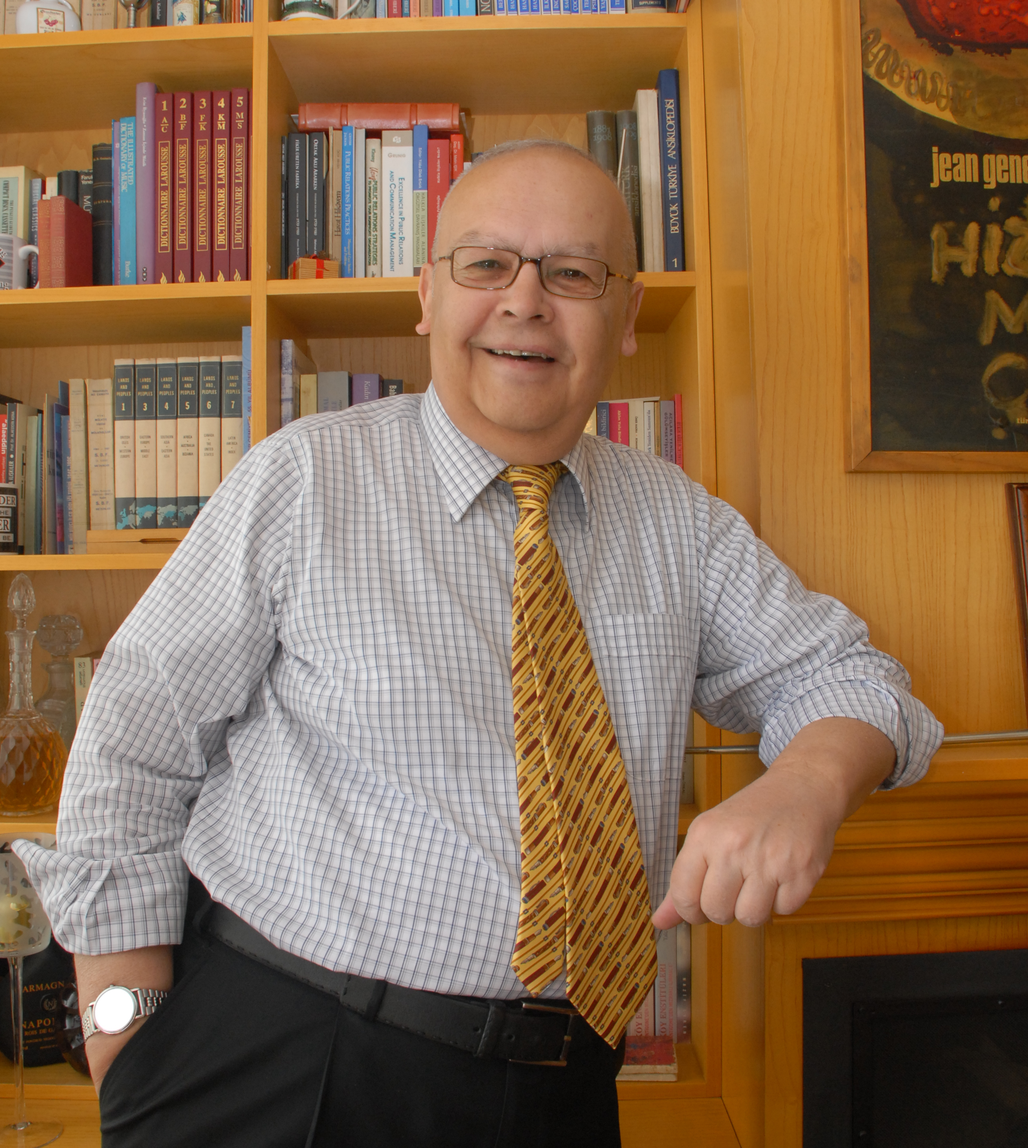
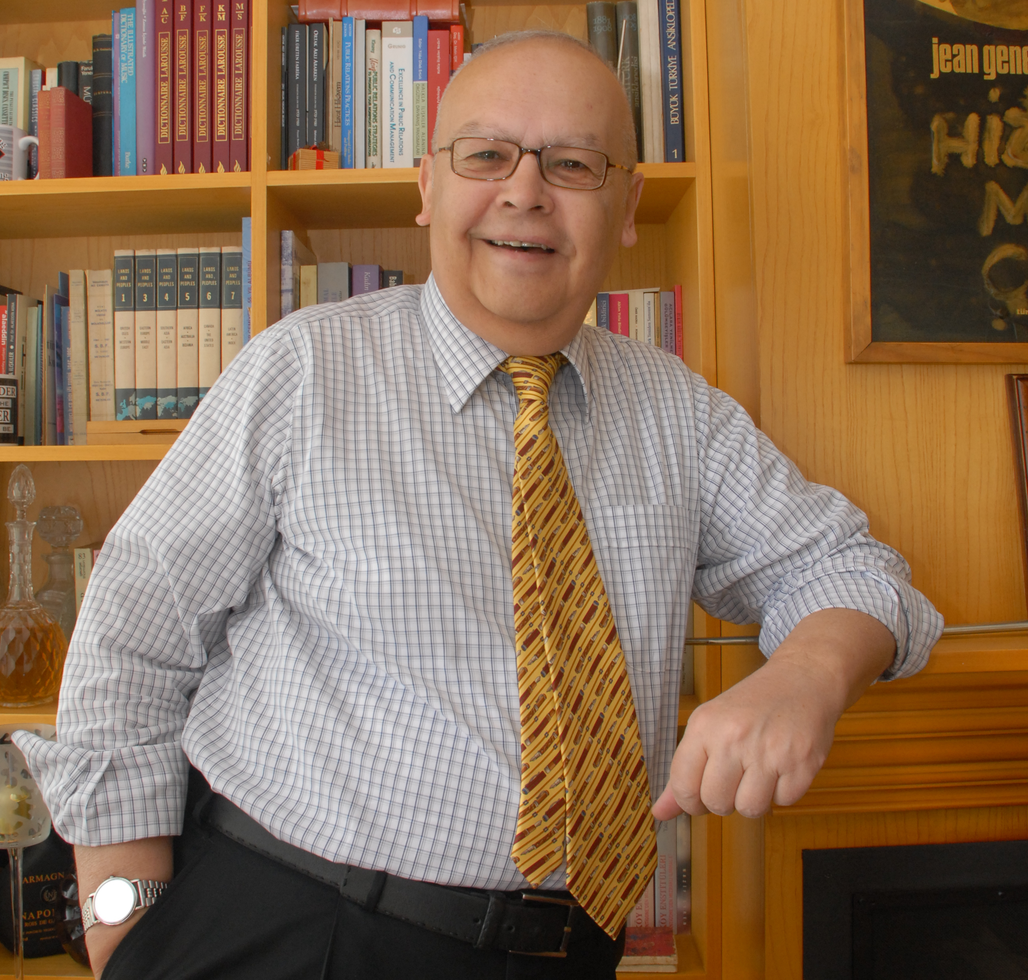
blog updates

diff --git a/src/routes/alaeddin-asna.tsx b/src/routes/alaeddin-asna.tsx
@@ -14,23 +14,21 @@ function RouteComponent() {
 				title="Kurucumuz: Prof. Dr. Alaeddin Asna"
 				description="Türkiye’de Halkla İlişkiler Mesleğinin Kurucusu"
 			/>
-			<div className="Section__Image ] w-full p-4 md:p-12 flex  items-center justify-center rounded-xl overflow-hidden">
+			<div className="Section__Image  w-full p-4 md:px-12 md:pt-12 md:pb-0 flex  items-center justify-center rounded-xl overflow-hidden">
 				<img
 					src={AlaaddinAsnaImage}
 					alt="Alaeddin Asna"
 					className="w-[720px] object-cover rounded-xl"
 				/>
 			</div>
-			{/* Secondary Motto Section */}
-			<section className="flex flex-col items-center justify-center font-sans text-(--brand-text-primary) text-lg md:text-3xl font-semibold text-center p-4 md:px-16 md:pt-12 md:pb-0">
-				<p>
+
+			{/* History of Founder Starts */}
+			<div className="flex flex-col items-center justify-center w-full p-12 md:p-24 text-justify gap-4 md:gap-12 text-md md:text-lg">
+				<p className="text-lg md:text-3xl font-semibold">
 					Türkiye’de halkla ilişkiler mesleğinin kurucusu olarak kabul edilen
 					Prof. Dr. Alaeddin Asna, hem akademide hem iş dünyasında iletişim
 					disiplininin gelişimine öncülük eden bir vizyonerdi.
 				</p>
-			</section>
-			{/* History of Founder Starts */}
-			<div className="flex flex-col items-center justify-center w-full p-12 md:p-24 text-justify gap-4 md:gap-12 text-md md:text-lg">
 				<p>
 					1961’de Ankara Üniversitesi Siyasal Bilgiler Fakültesi Ekonomi
 					Bölümü’nden mezun oldu. ABD Michigan State University’de İletişim
@@ -70,15 +68,13 @@ function RouteComponent() {
 					iletişim alanında yazdığı kitaplar, makaleler ve bildiriler hâlâ
 					kaynak niteliğini koruyor.
 				</p>
-			</div>
-			<section className="flex flex-col items-center justify-center font-sans text-(--brand-text-primary) text-lg md:text-3xl font-semibold text-center p-4 md:p-16 ">
-				<p>
+				<p className="text-lg md:text-3xl font-semibold">
 					Prof. Dr. Alaeddin Asna, etik değerleri, öncü vizyonu ve akademik
 					katkılarıyla yalnızca A&B’nin değil, Türkiye’de iletişim disiplininin
 					de temel taşlarından biri oldu. Onun vizyonu, bugün hâlâ bizim
 					pusulamız.
 				</p>
-			</section>
+			</div>
 		</main>
 	);
 }

diff --git a/src/routes/index.tsx b/src/routes/index.tsx
@@ -32,7 +32,7 @@ function App() {
 				<div className="Hero__Left flex w-full h-140  items-center justify-center font-sans text-white text-xl md:text-6xl text-start p-4 md:p-12">
 					<SplitText
 						className="font-classic text-white text-xl md:text-6xl text-start font-semibold"
-						text="Daha iyi bir dünya için 52 Yıldır iletişimi dönüştürüyoruz. "
+						text="Daha iyi bir dünya için 52 yıldır iletişimi dönüştürüyoruz. "
 					/>
 				</div>
 			</section>
@@ -224,7 +224,7 @@ function App() {
 			{/* Landing Section End */}
 			{/* Landing Section Start */}
 			<SectionTitle
-				title="Neden a&b?"
+				title="Neden A&B Danışmanlık?"
 				description="52 Yıllık Güven, Tek Farkımız"
 			/>
 			<div className="flex flex-col md:flex-row items-center justify-center w-full lg:min-h-[700px] p-12 md:p-24 gap-4 md:gap-12">
@@ -271,13 +271,13 @@ function App() {
 			{/* Landing Section Start */}
 			<div className="flex flex-col md:flex-row w-full  bg-(--brand-primary) text-white p-12 md:px-24 py-12 h-auto lg:h-120 justify-start items-center gap-4 ">
 				<div className="Left__Section flex w-full text-4xl font-classic text-italic font-semibold  ">
-					<p>Finans'tan Kültür-Sanata, Enerjiden Sağlığa</p>
+					<p>Finanstan sanata, tekstilden sivil topluma…</p>
 				</div>
 				<div className="Right__Section flex flex-col text-md md:text-xl text-start items-start gap-4 md:gap-6">
 					<p>
 						30 yılı aşan iş birlikleriyle onlarca sektörde deneyim kazandık. Her
 						sektörün kendine özgü dinamiklerini, risklerini ve fırsatlarını
-						biliyor; buna göre özelleştirilmiş iletişim stratejileri
+						biliyor; buna göre özelleştirilmiş projeler ve iletişim stratejileri
 						geliştiriyoruz.
 					</p>
 					<div className="flex w-auto items-center justify-center">

diff --git a/src/routes/blog/$slug.tsx b/src/routes/blog/$slug.tsx
@@ -1,3 +1,4 @@
+import { SpinnerGapIcon } from "@phosphor-icons/react";
 import { createFileRoute, notFound } from "@tanstack/react-router";
 import { lazy, Suspense, useMemo } from "react";
 import {
@@ -5,7 +6,6 @@ import {
 	getBlogSummaryBySlug,
 	getMdxImport,
 } from "#/lib/blog-posts";
-
 export const Route = createFileRoute("/blog/$slug")({
 	loader: ({ params }): BlogPostSummary => {
 		const post = getBlogSummaryBySlug(params.slug);
@@ -15,7 +15,7 @@ export const Route = createFileRoute("/blog/$slug")({
 	head: ({ loaderData }) => ({
 		meta: [
 			{
-				title: `${loaderData?.title} | Blog | A&B İletişim`,
+				title: `${loaderData?.title} | Blog | A&B Danışmanlık`,
 			},
 			{
 				name: "description",
@@ -55,10 +55,13 @@ function BlogPostRoute() {
 				</p>
 			</header>
 			*/}
-			<article className="prose prose-neutral prose-lg md:prose-xl max-w-3xl mx-auto w-full text-(--brand-text-primary) prose-headings:font-semibold prose-a:text-(--brand-primary)">
+			<article className="prose prose-neutral prose-lg md:prose-xl max-w-3xl mx-auto w-full text-(--brand-text-primary) prose-headings:font-semibold prose-a:text-(--brand-primary) ">
 				<Suspense
 					fallback={
-						<p className="text-(--brand-text-secondary)">Yükleniyor…</p>
+						<div className="flex flex-col items-center justify-center h-full">
+							<SpinnerGapIcon size={48} className="animate-spin" />
+							<p className="text-(--brand-text-secondary)">Yükleniyor…</p>
+						</div>
 					}
 				>
 					<Body />

diff --git a/src/routes/__root.tsx b/src/routes/__root.tsx
@@ -6,11 +6,6 @@ import Header from "../components/Header";
 
 import appCss from "../styles.css?url";
 
-{
-	/*}
-const THEME_INIT_SCRIPT = `(function(){try{var stored=window.localStorage.getItem('theme');var mode=(stored==='light'||stored==='dark'||stored==='auto')?stored:'auto';var prefersDark=window.matchMedia('(prefers-color-scheme: dark)').matches;var resolved=mode==='auto'?(prefersDark?'dark':'light'):mode;var root=document.documentElement;root.classList.remove('light','dark');root.classList.add(resolved);if(mode==='auto'){root.removeAttribute('data-theme')}else{root.setAttribute('data-theme',mode)}root.style.colorScheme=resolved;}catch(e){}})();`;
-*/
-}
 export const Route = createRootRoute({
 	head: () => ({
 		meta: [
@@ -22,10 +17,10 @@ export const Route = createRootRoute({
 				content: "width=device-width, initial-scale=1",
 			},
 			{
-				title: "a&b | 52 Yıldır iletişimi dönüştürüyoruz.",
-				description: "a&b | 52 Yıldır iletişimi dönüştürüyoruz.",
-				keywords: "a&b, iletişim, dönüştürüyoruz, 52 Yıldır",
-				author: "a&b",
+				title: "A&B Danışmanlık | 52 Yıldır iletişimi dönüştürüyoruz",
+				description: "A&B Danışmanlık | 52 Yıldır iletişimi dönüştürüyoruz.",
+				keywords: "A&B Danışmanlık, iletişim, dönüştürüyoruz, 52 Yıldır",
+				author: "A&B Danışmanlık",
 				robots: "index, follow",
 				googlebot: "index, follow",
 				google: "index, follow",

diff --git a/src/routes/hikayemiz.tsx b/src/routes/hikayemiz.tsx
@@ -39,14 +39,14 @@ function RouteComponent() {
 				{/* Landing Section Start */}
 
 				<div className="flex flex-col md:flex-row items-center justify-center w-full p-12 md:p-24 gap-4 md:gap-12 text-justify ">
-					<div className="Section__Image w-full md:w-1/2 rounded-xl overflow-hidden">
+					<div className="Section__Image w-auto  ">
 						<img
 							src={AlaaddinAsnaImage}
 							alt="Kurucumuz Prof. Dr. Alaeddin Asna"
-							className="w-full h-full object-cover"
+							className="w-auto h-full rounded-xl overflow-hidden object-cover"
 						/>
 					</div>
-					<div className="flex flex-col items-center justify-center w-full md:w-1/2 text-(--brand-text-primary) text-md md:text-lg gap-2 md:gap-4">
+					<div className="flex flex-col items-center justify-center w-full lg:min-w-160 text-(--brand-text-primary) text-md md:text-lg gap-2 md:gap-4">
 						<p>
 							1974 yılında Prof. Dr. Alaeddin Asna tarafından kurulan A&B
 							İletişim, <b>Türkiye’nin ilk halkla ilişkiler şirketidir</b>.

diff --git a/src/routes/is-ortaklarimiz.tsx b/src/routes/is-ortaklarimiz.tsx
@@ -29,7 +29,6 @@ import { useState } from "react";
 import {
 	Dialog,
 	DialogContent,
-	DialogDescription,
 	DialogHeader,
 	DialogTitle,
 } from "#/components/ui/dialog";
@@ -572,9 +571,6 @@ function RouteComponent() {
 						<>
 							<DialogHeader>
 								<DialogTitle>{selectedIndustry.title}</DialogTitle>
-								<DialogDescription>
-									Birlikte çalıştığımız marka ve kurumlar.
-								</DialogDescription>
 							</DialogHeader>
 							{selectedIndustry.clients.length > 0 ? (
 								<ul className="grid gap-4 pt-2">

diff --git a/src/components/Footer.tsx b/src/components/Footer.tsx
@@ -84,7 +84,7 @@ export default function Footer() {
 			</div>
 			<div className="flex flex-col items-center justify-center gap-4 md:flex-row">
 				<p className="mt-4 items-center text-center text-sm text-(--brand-anthracite) md:text-left">
-					&copy; {year} A&B. Tüm hakları saklıdır.
+					&copy; {year} A&B Danışmanlık. Tüm hakları saklıdır.
 				</p>
 			</div>
 		</footer>
